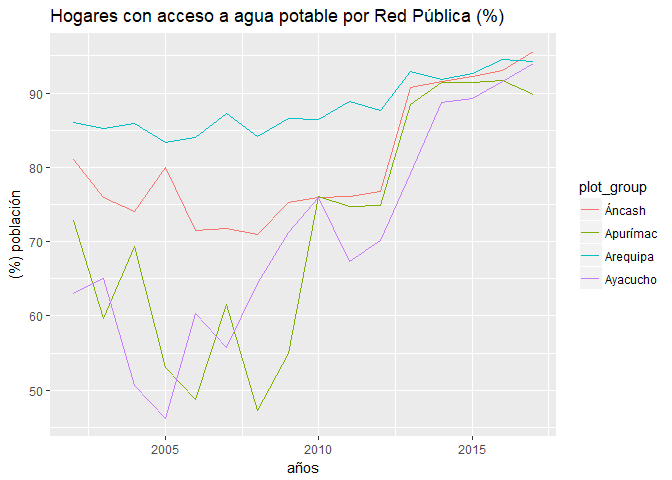
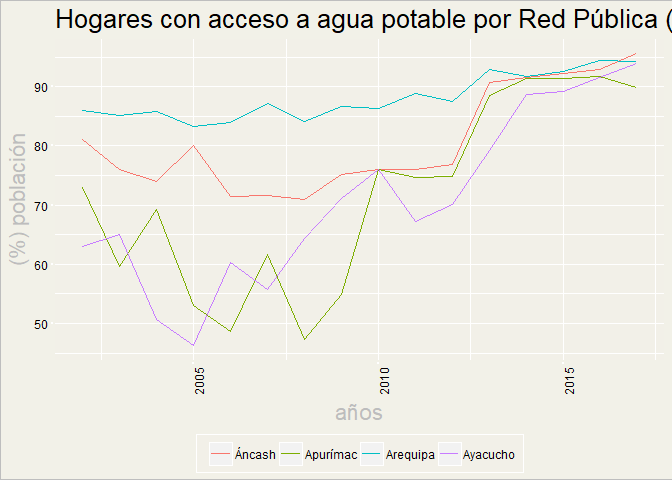
actualizando el readme

diff --git a/README.md b/README.md
@@ -19,6 +19,7 @@ if (!require("DT")) install.packages("DT")
 if (!require("ggplot2")) install.packages("ggplot2")
 if (!require("dygraphs")) install.packages("dygraphs")
 if (!require("ggfortify")) devtools::install_github("sinhrks/ggfortify")
+if (!require("eem")) devtools::install_github("Eflores89/eem")
 if (!require("INEI")) devtools::install_github("arturochian/INEI")
 ```
 
@@ -31,12 +32,15 @@ Este es un pequeño ejemplo de su uso:
 library(dplyr)
 library(xts)
 library(DT)
+library(eem)
 library(dygraphs)
 library(INEI)
 library(ggfortify)
 data("aguapublica")
 p<-autoplot(aguapublica[,2:5],facets = F)
-p + ggtitle("Hogares con acceso a agua potable por Red Pública (%)") + xlab("años") + ylab("(%) población") 
+p + ggtitle("Hogares con acceso a agua potable por Red Pública (%)") +
+  xlab("años") + ylab("(%) población")+
+  theme_eem()
 ```
 
 <img src="man/figures/README-example-1.png" width="100%" />
